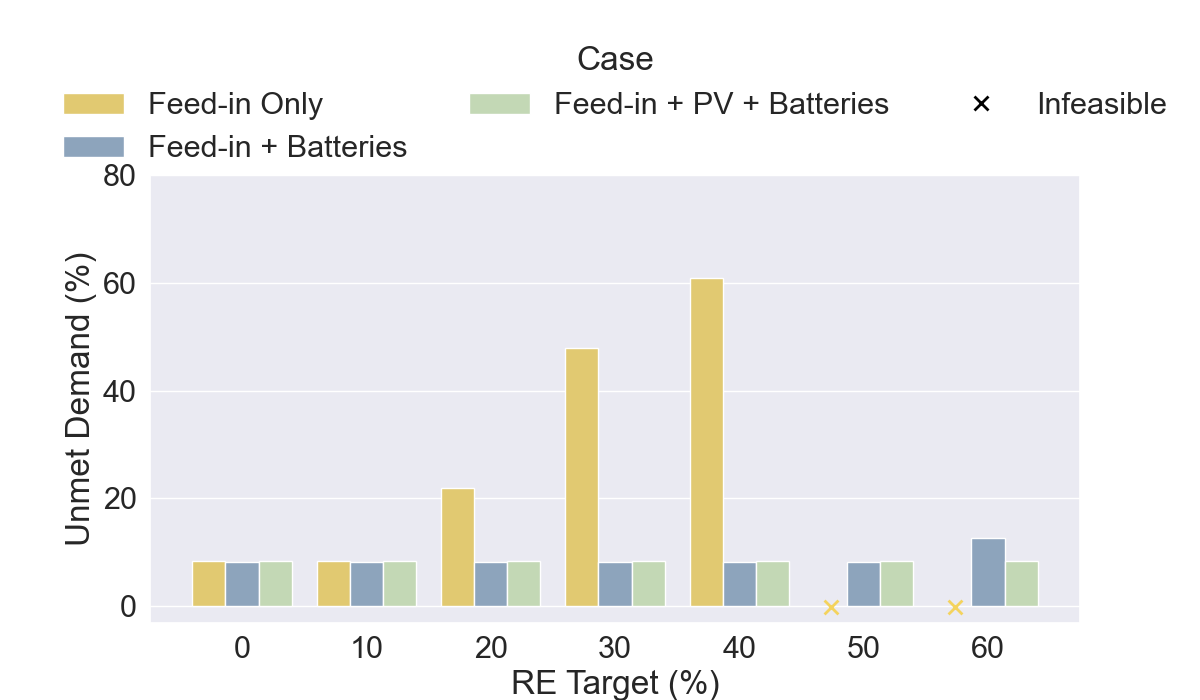
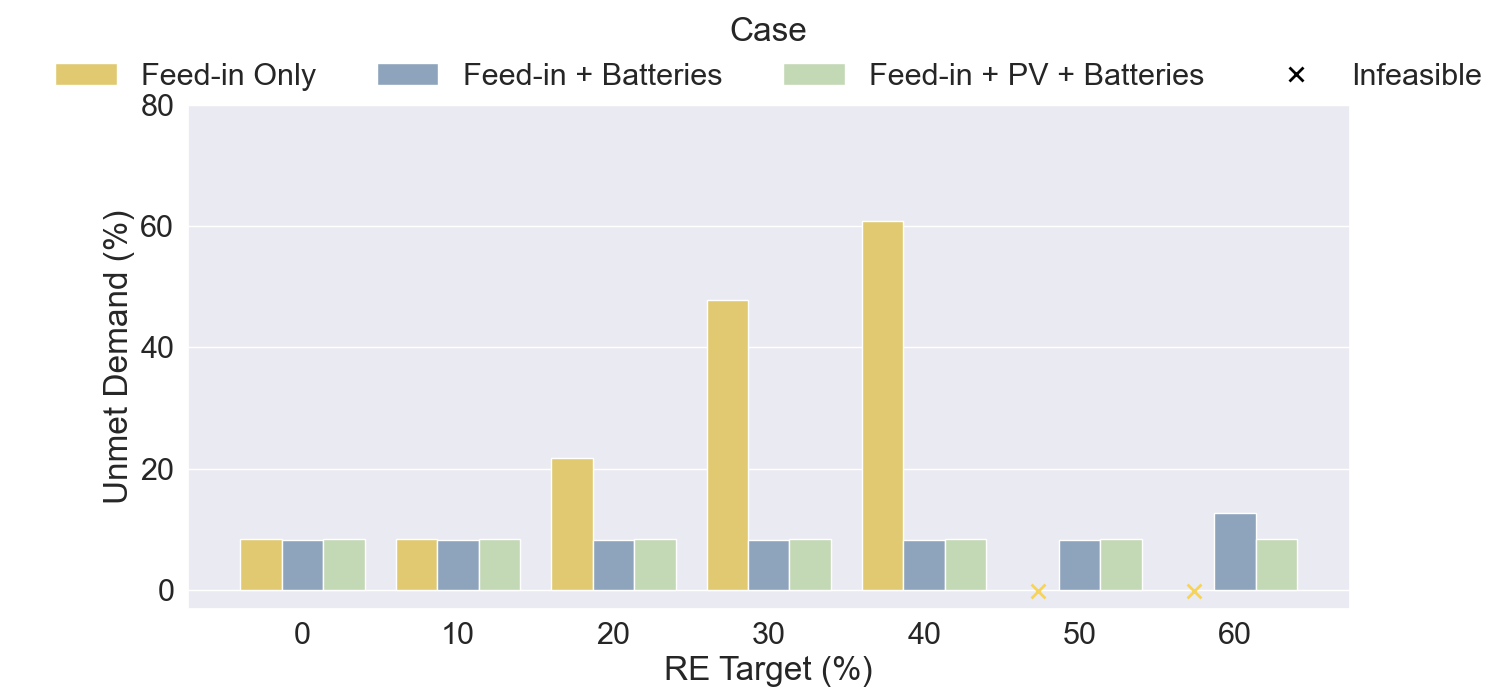
Fix plot scale

diff --git a/model/plot_functions.py b/model/plot_functions.py
@@ -775,7 +775,7 @@ def ud_comp(casePaths, re_levels): # re_levels in %
     df_data = pd.DataFrame(bar_data)
     df_data_melted = df_data.melt('RE target', var_name='Unmet Demand', 
                                     value_name='Value')
-    plt.figure(figsize=(12, 7))
+    plt.figure(figsize=(15, 7))
     hue_order = ['Feed-in Only', 
                  'Feed-in + Batteries', 
                  'Feed-in + PV + Batteries']
@@ -808,11 +808,11 @@ def ud_comp(casePaths, re_levels): # re_levels in %
     ax.legend(handles=handles, labels=labels,
               title='Case',
               loc='upper center',
-              bbox_to_anchor=(0.5, 1.35),
-              ncol=3,
+              bbox_to_anchor=(0.5, 1.23),
+              ncol=4,
               frameon=False)
-    plt.subplots_adjust(top=0.75) 
-    
+    plt.subplots_adjust(top=.85) 
+    plt.subplots_adjust(bottom = .13)
     plt.yticks(np.arange(0, 81, 20))
     
     plt.savefig(new_plots_folder)
@@ -859,7 +859,7 @@ def ws_comp(casePaths):
     df_data = pd.DataFrame(bar_data)
     df_data_melted = df_data.melt('RE target', var_name='Wasted Surplus', 
                                     value_name='Value')
-    plt.figure(figsize=(12, 7))
+    plt.figure(figsize=(15, 7))
     
     hue_order = ['Feed-in Only', 
                  'Feed-in + Batteries', 
@@ -892,10 +892,11 @@ def ws_comp(casePaths):
     ax.legend(handles=handles, labels=labels,
               title='Case',
               loc='upper center',
-              bbox_to_anchor=(0.5, 1.35),
-              ncol=3,
+              bbox_to_anchor=(0.5, 1.23),
+              ncol=4,
               frameon=False)
-    plt.subplots_adjust(top=0.75) 
+    plt.subplots_adjust(top=.85) 
+    plt.subplots_adjust(bottom = .13)
     
     plt.yticks(np.arange(0, 81, 20))
     
@@ -1163,4 +1164,4 @@ casePaths = [outFile_8_1, outFile_8_2, outFile_8_3]
 re_levels = [0, 10, 20, 30, 40, 50, 60]
 ud_comp(casePaths, re_levels)
 ws_comp(casePaths)
-re_comp(casePaths) 
+#re_comp(casePaths) 

diff --git a/model/main.py b/model/main.py
@@ -327,6 +327,7 @@ out_path = os.path.join(cwd, 'Outputs', '8. Fixed RE', 'No PV w Bat')
 fits = np.arange(0, 0.31, 0.02)
 elec_prices = np.arange(0.29, 0.46, 0.02)
 re_levels = [0, 0.1, 0.2, 0.3, 0.4, 0.5, 0.6]
+
 '''
 for re_level in re_levels:
     multi_run(in_path=in_path, fits=fits, elec_prices=elec_prices, 
